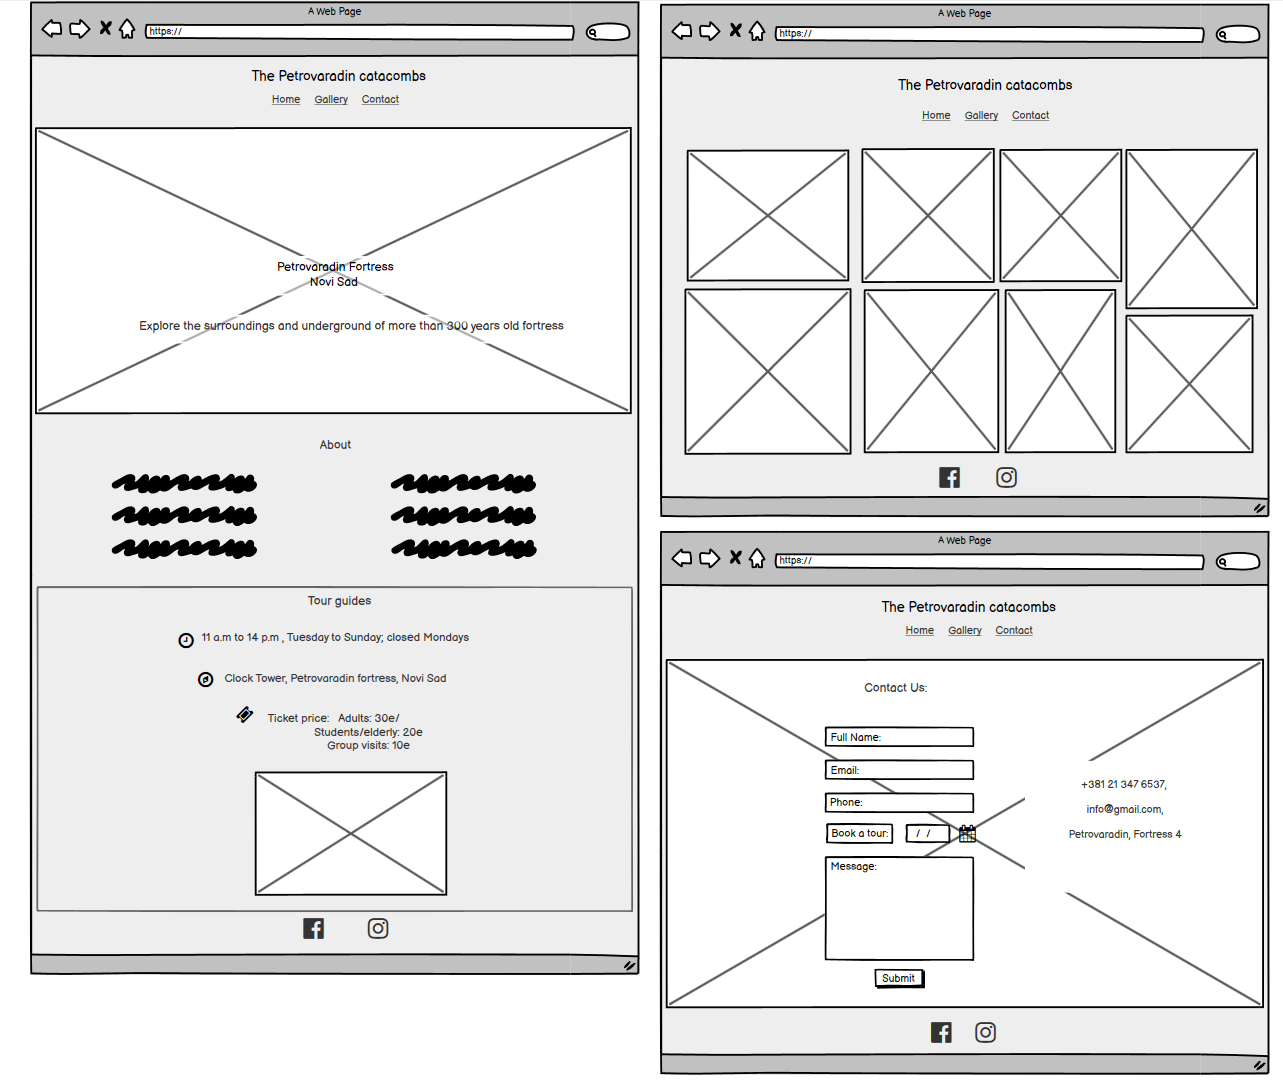
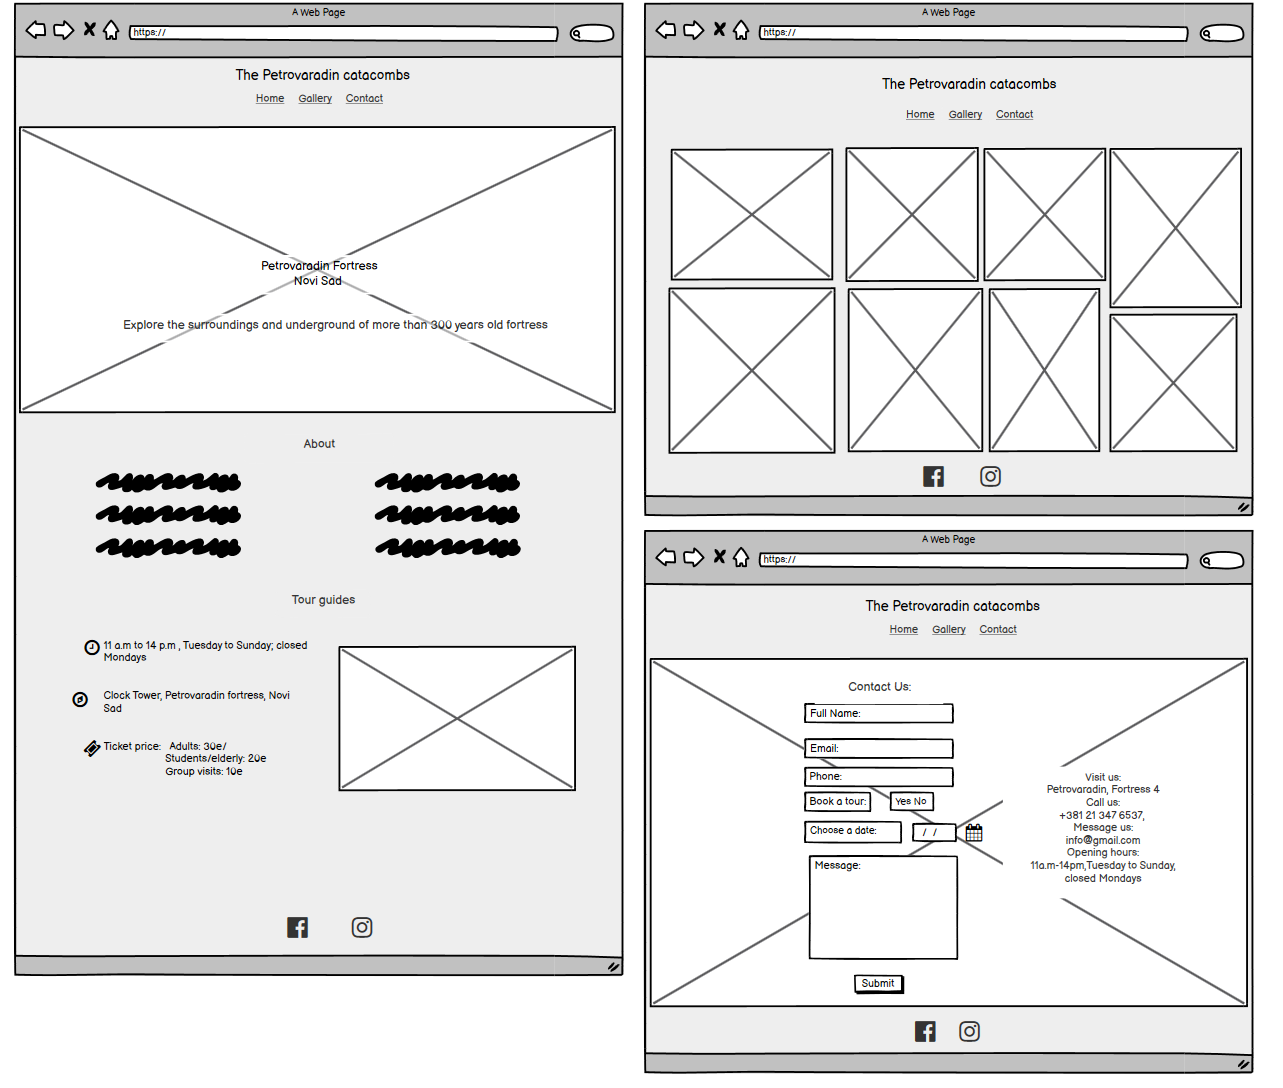
Update wireframes

diff --git a/assets/css/style.css b/assets/css/style.css
@@ -11,10 +11,9 @@ body {
     color:#b48850;
     background-color: #180b03;
     padding-top: 100px;
-    padding-bottom: 100px ;
-    
+    padding-bottom: 100px ;    
 }
-/* heading and logo */
+/* Header and navbar centered and sticky on top of the page  */
 header {
     position: fixed;
     top: 0;
@@ -31,7 +30,6 @@ h2 {
     color: #b48850;
     text-align: center;
 }
-/* navigation links */
 .nav-list {
     list-style: none;
     text-align: center;
@@ -56,7 +54,7 @@ a:link {
     color: #180b03;
     border-bottom: 2px solid #59aeaa;
 }
-/* hero image */
+/* Style hero image with text centered inside*/
 .hero-image {
     background-color: #180b03;
     color: #ffffff;
@@ -78,7 +76,6 @@ a:link {
     text-transform: capitalize;
     font-size: 120%;        
 }
-/* about section */
 .about-section {
     min-height: 450px;
 }
@@ -103,7 +100,6 @@ a:link {
     border-radius: 25px;
     padding: 1.5rem; 
 }
-/* tour guide section */
 .tour-guides {    
     background-color: #59aeaa;
     color: #180b03;
@@ -129,7 +125,6 @@ img {
     line-height: 1.8em;
     padding: 1rem;                
 }
-/* footer */
 footer {
     height: 100px;
     position: fixed;
@@ -138,8 +133,7 @@ footer {
     width: 100%;
     background-color: #180b03;
     color: white;
-    text-align: center;
-   
+    text-align: center;   
 }
 .social-links {
     text-align: center;
@@ -154,7 +148,7 @@ footer {
     padding: 1em;
     color: #ffffff;
 }
-/* gallery */
+/* Style gallery with flexbox in order to achieve columns and rows */
 .gallery {
     display: flex;
     gap: 1rem;          
@@ -166,7 +160,7 @@ footer {
     max-width: 100%; 
     flex: 1;   
 } 
-/* contact page */
+/* Style contact page with hero image so that it covers whole page. */
 .contact-image {
     color: #ffffff;
     font-weight: bold;
@@ -219,3 +213,9 @@ input {
 .confirmation-message p {
     text-align: center;
 }
+/* Reduce the gap between contents on contact page */
+ @media only screen and (min-width: 1200px) {
+    .info {
+        margin-left: 50px;
+    }
+} 

diff --git a/README.md b/README.md
@@ -85,6 +85,7 @@ Wireframes were created for desktop and mobile.
 
 
 ## Features
+
 ### Existing features
 * Navigation Bar
 * The Landing Page Image
@@ -109,6 +110,7 @@ When creating this website, I paid great attention to its accessibility:
 
 
 ## Technologies Used
+
 ### Languages Used
 
 HTML and CSS were used to create this website.
@@ -131,6 +133,8 @@ Google Dev Tools - to troubleshoot and test features, solve issues with responsi
 Tiny PNG to compress images.
 
 Am I Responsive? To show the website image on a range of devices.
+
+[Adobe Color](https://color.adobe.com/create/color-contrast-analyzer) - for checking the contrast ratio between text and background color.
 
 ## Deployment
 
